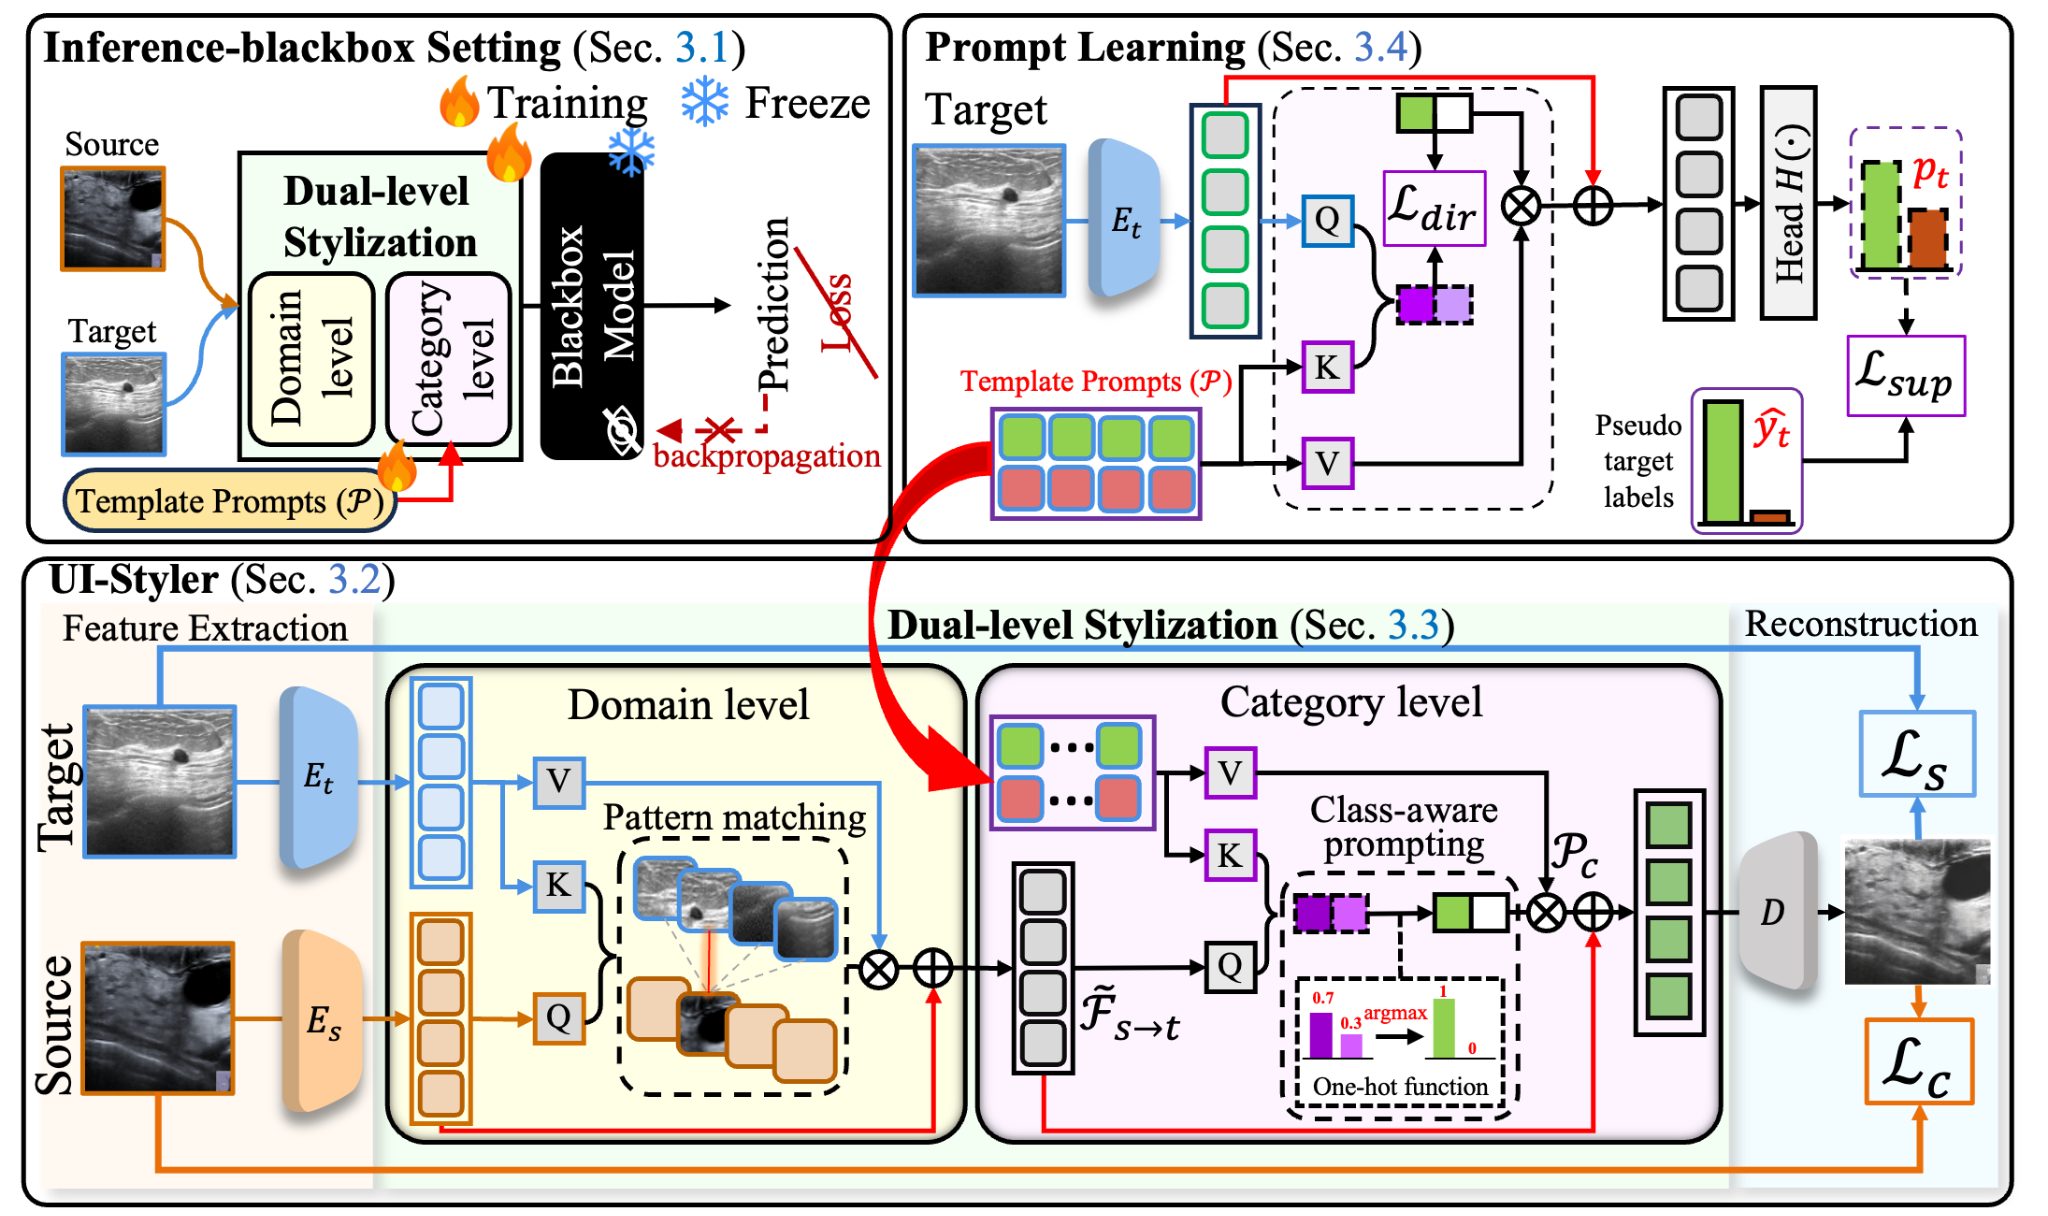
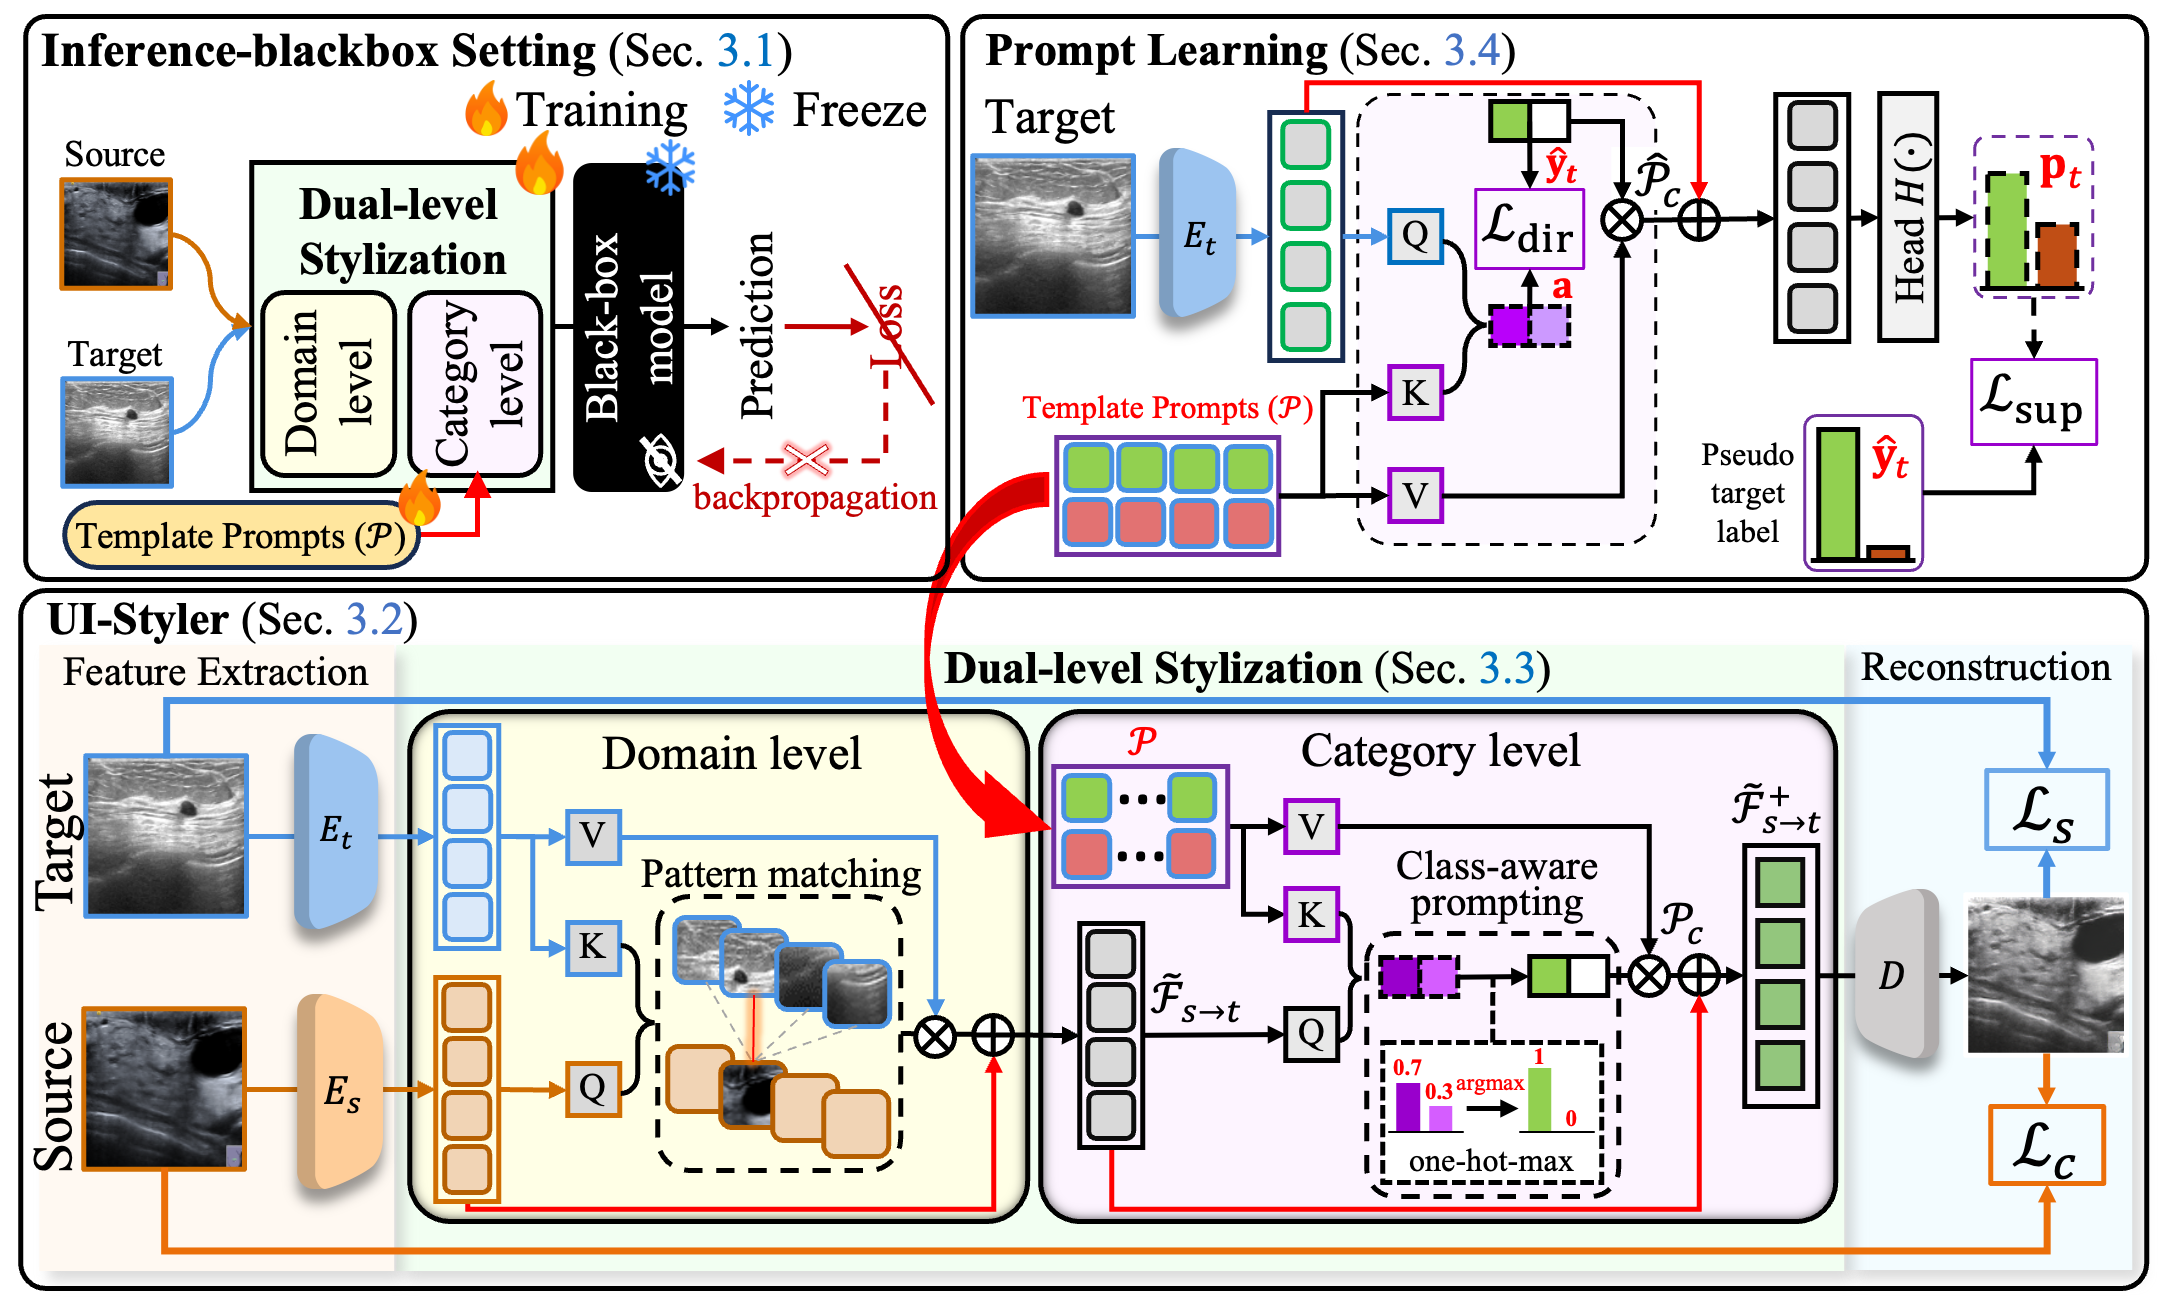
Update UI-Styler website

Changed region(s): [[0.0, 0.0, 1.0, 1.0]]

diff --git a/UIStyler/index.html b/UIStyler/index.html
@@ -34,6 +34,21 @@
 
       <h1 class="title-main">UI-Styler</h1>
       <h2 class="title-sub">Ultrasound Image Style Transfer with <span class="hl1">Class-Aware Prompts</span> for Cross-Device Diagnosis Using a <span class="hl2">Frozen Black-Box Inference Network</span></h2>
+      
+      <!-- WACV 2026 Highlight -->
+      <div style="
+          text-align:center;
+          font-size:26px;                /* Larger text */
+          font-weight:900;               /* Extra bold */
+          color:#b91c1c;                 /* Red-700 */
+          background-color:#fee2e2;      /* Red-100 */
+          padding:12px 22px;             /* More padding */
+          border-radius:10px;
+          margin: -5px 0 -5px 0;         /* Closer to authors */
+          display:inline-block;
+      ">
+        — WACV 2026 —
+      </div>
 
       <div class="authors">
         <a href="https://scholar.google.com/citations?user=UUT7AlUAAAAJ" target="_blank" rel="noopener">Nhat-Tuong Do-Tran</a>,
@@ -94,7 +109,7 @@
     <section id="abstract" class="section">
       <div class="container">
         <h2>📝 Abstract</h2>
-        <p>The appearance of ultrasound images varies across acquisition devices, causing domain shifts that degrade the performance of fixed black-box downstream inference models when reused. To mitigate this issue, it is practical to develop unpaired image translation (UIT) methods that effectively align the statistical distributions between source and target domains, particularly under the constraint of a reused inference-blackbox setting. However, existing UIT approaches often overlook class-specific semantic alignment during domain adaptation, resulting in misaligned content-class mappings that can impair diagnostic accuracy. To address this limitation, we propose UI-Styler, a novel ultrasound-specific, class-aware image style transfer framework. UI-Styler leverages a pattern-matching mechanism to transfer texture patterns embedded in the target images onto source images while preserving the source structural content. In addition, we introduce a class-aware prompting strategy guided by pseudo labels of the target domain, which enforces accurate semantic alignment with diagnostic categories.</p>
+        <p>The appearance of ultrasound images varies across acquisition devices, causing domain shifts that degrade the performance of fixed black-box downstream inference models when reused. To mitigate this issue, it is practical to develop unpaired image translation (UIT) methods that effectively align the statistical distributions between source and target domains, particularly under the constraint of a reused <span style="font-weight:bold; text-decoration:underline;">inference-blackbox setting</span>. However, existing UIT approaches often overlook class-specific semantic alignment during domain adaptation, resulting in misaligned content-class mappings that can impair diagnostic accuracy. To address this limitation, we propose UI-Styler, a novel ultrasound-specific, class-aware image style transfer framework. UI-Styler leverages a pattern-matching mechanism to transfer texture patterns embedded in the target images onto source images while preserving the source structural content. In addition, we introduce a class-aware prompting strategy guided by pseudo labels of the target domain, which enforces accurate semantic alignment with diagnostic categories.</p>
 
         <div class="row">
           <div class="col-12">
@@ -139,7 +154,7 @@
                 <span style="color:#2563eb; font-weight:bold;">features or logits</span> 
                 for computing the loss function (i.e., prompt tuning in the black-box setting). 
                 <strong>In this work</strong>, we focus on the practical 
-                <span style="color:#16a34a; font-weight:bold;">inference-blackbox setting</span>, 
+                <span style="color:black; font-weight:bold; text-decoration:underline;">inference-blackbox setting</span>, 
                 where only predictions are available.
                 </p>
                 <img src="assets/img/settings.png" alt="Inference black-box setting"
@@ -157,7 +172,7 @@
                 
                 <p style="text-align:justify; text-justify:inter-word; font-size:18px; margin-left:30px; margin-right:30px; margin-bottom:-10px;">
                   <strong>Top-left:</strong> Overview of UI-Styler for ultrasound image translation under an 
-                  <span style="color:#22c55e; font-weight:bold;">inference-blackbox setting</span>. 
+                  <span style="color:black; font-weight:bold; text-decoration:underline;">inference-blackbox setting</span>. 
                   It performs <span style="color:#1d4ed8; font-weight:bold;">dual-level stylization</span> with a prompt set, 
                   while the <span style="color:#374151; font-weight:bold;">black-box</span> model remains frozen for 
                   <span style="color:#7c3aed; font-weight:bold;">final predictions</span>.
@@ -238,7 +253,7 @@
 
                 <p style="text-align:justify; text-justify:inter-word; font-size:16px; margin:10px 20px;">
                   <strong>Feature Space.</strong> We visualize the feature distributions using t-SNE 
-                  (<a href="https://lvdmaaten.github.io/tsne/" target="_blank" rel="noopener">t-SNE reference</a>) 
+                  (<a href="https://www.jmlr.org/papers/v9/vandermaaten08a.html" target="_blank" rel="noopener">Maaten, L. V. D., and Hinton, G</a>) 
                   on the UDIAT→UCLM task. Each point represents a sample: 
                   <span style="color:forestgreen; font-weight:bold;">green</span> for benign and 
                   <span style="color:red; font-weight:bold;">red</span> for malignant. 
